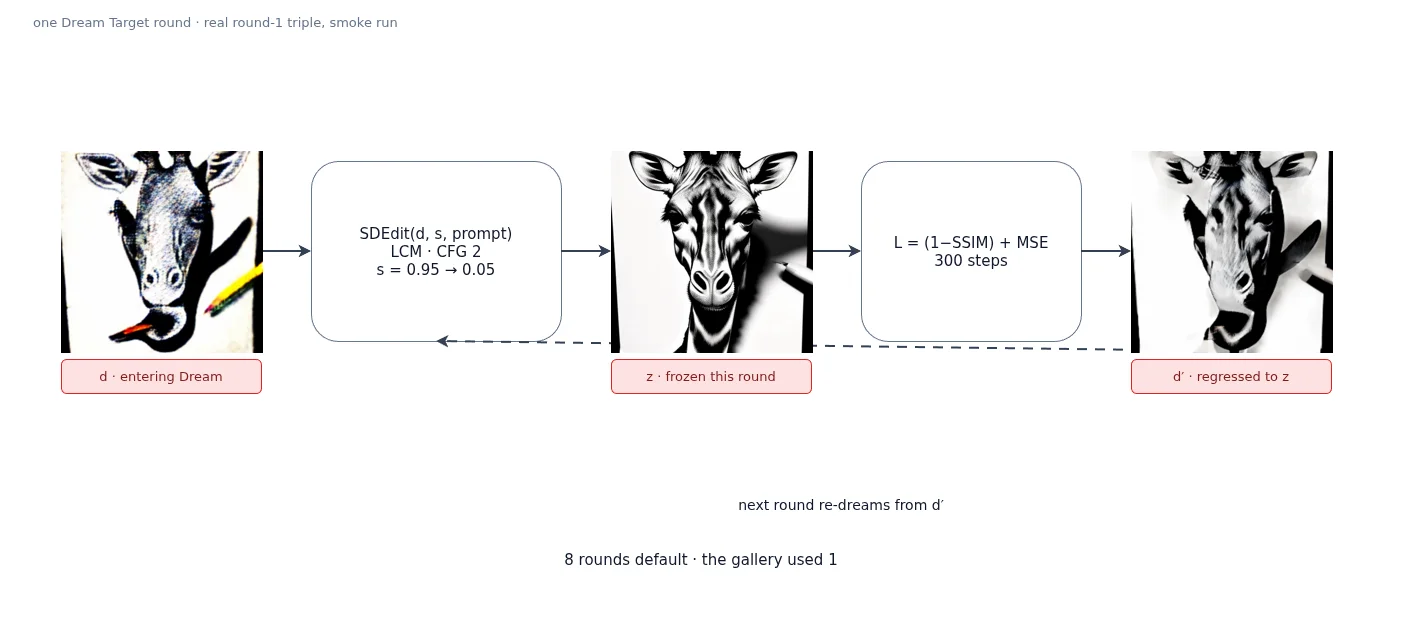
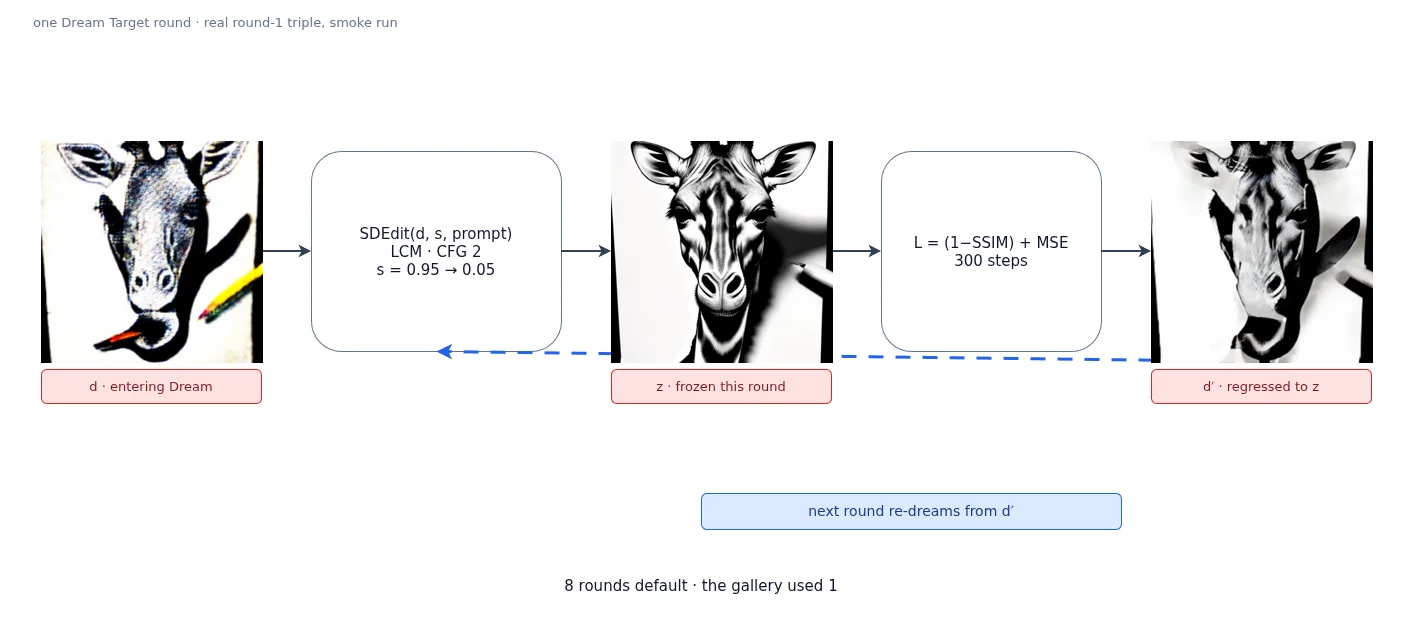
feat: densen ffn and dream figures with evidence panels
FFN gains a second row: coordinate field visual, real sin/cos plot,
2x crops of printable strokes, and the pixels-vs-weights verdict.
Dream gains larger photos and a labeled loop-back. Joint tightened.

diff --git a/frontend/src/routes/illusions/+page.svelte b/frontend/src/routes/illusions/+page.svelte
@@ -49,7 +49,7 @@
 					src: '/illusions/ffn.webp',
 					cap: 'ill.fig_ffn_cap',
 					width: 1404,
-					height: 474
+					height: 664
 				}
 			]
 		},
@@ -81,7 +81,7 @@
 					src: '/illusions/dream.webp',
 					cap: 'ill.fig_dream_cap',
 					width: 1404,
-					height: 624
+					height: 644
 				}
 			]
 		},
@@ -94,7 +94,7 @@
 					src: '/illusions/joint.webp',
 					cap: 'ill.fig_joint_cap',
 					width: 1004,
-					height: 1404
+					height: 1344
 				}
 			]
 		},

diff --git a/scripts/render-illusion-figures.py b/scripts/render-illusion-figures.py
@@ -203,18 +203,77 @@ def fig_architecture():
     return f
 
 
-def fig_ffn():
-    f = Figure("ffn", 1400, 470)
+def _default_asset_dir():
+    import tempfile
+
+    out = Path(tempfile.mkdtemp(prefix="ill-fig-assets-"))
+    return out
+
+
+def _evidence_assets(outdir):
+    """Small explanatory plots drawn with PIL (math visuals, not data)."""
+    from PIL import Image, ImageDraw
+    import math
+
+    outdir = Path(outdir)
+    outdir.mkdir(parents=True, exist_ok=True)
+    grid = Image.new("RGB", (150, 150), "white")
+    gx = ImageDraw.Draw(grid)
+    for j in range(15):
+        for i in range(15):
+            gx.rectangle(
+                [10 + i * 9, 10 + j * 9, 10 + (i + 1) * 9 - 1, 10 + (j + 1) * 9 - 1],
+                fill=(int(255 * i / 14), int(255 * j / 14), 128),
+            )
+    grid.save(outdir / "coords-grid.png")
+    waves = Image.new("RGB", (220, 150), "white")
+    wx = ImageDraw.Draw(waves)
+    wx.line([(10, 75), (210, 75)], fill="#94a3b8", width=1)
+    wx.line(
+        [(10 + i * 2, 75 - int(55 * math.sin(i / 31.8 * 2 * math.pi))) for i in range(101)],
+        fill="#2563eb",
+        width=3,
+    )
+    wx.line(
+        [(10 + i * 2, 75 - int(55 * math.cos(i / 31.8 * 2 * math.pi))) for i in range(101)],
+        fill="#dc2626",
+        width=3,
+    )
+    waves.save(outdir / "sincos.png")
+    prime = Image.open(HERO_PRIME).convert("RGB")
+    prime.crop((60, 150, 124, 214)).resize((192, 192)).save(outdir / "crop-a.png")
+    prime.crop((120, 40, 184, 104)).resize((192, 192)).save(outdir / "crop-b.png")
+    return outdir
+
+
+def fig_ffn(evidence_dir=None):
+    f = Figure("ffn", 1400, 660)
     f.tag("one prime = one network · ≈264k weights")
-    f.rect(40, 170, 110, 90, "(x, y)", colors=C_INPUT)
-    f.rect(180, 160, 210, 110, "B ∼ N(0, 10²)\n2 × 256 · fixed")
-    f.rect(420, 160, 170, 110, "sin + cos\n512-d feats")
-    f.rect(620, 140, 300, 150, "MLP 512→256→256→256→3\nReLU ×3 · θ trained", colors=C_TRAIN)
-    f.rect(950, 160, 150, 110, "σ · sigmoid\nRGB (1,3,512,512)")
-    f.photo(1130, 120, 190, 190, HERO_PRIME, "printable prime", C_INPUT)
-    for a, b in [(150, 180), (390, 420), (590, 620), (920, 950), (1100, 1130)]:
-        f.edge([(a, 215), (b, 215)])
-    f.text(140, 390, 1120, 40, "v = [ sin(2πBx) ‖ cos(2πBx) ] · RGB = σ(MLP(v))")
+    f.rect(40, 120, 100, 80, "(x, y)", colors=C_INPUT)
+    f.rect(160, 110, 180, 100, "B ∼ N(0, 10²)\n2 × 256 · fixed")
+    f.rect(360, 110, 160, 100, "sin + cos\n512-d feats")
+    f.rect(540, 100, 280, 120, "MLP 512→256→256→256→3\nReLU ×3 · θ trained", colors=C_TRAIN)
+    f.rect(840, 110, 150, 100, "σ · sigmoid\nRGB (1,3,512,512)")
+    f.photo(1010, 80, 190, 190, HERO_PRIME, "printable prime", C_INPUT)
+    for a, b in [(140, 160), (340, 360), (520, 540), (820, 840), (990, 1010)]:
+        f.edge([(a, 160), (b, 160)])
+    assets = _evidence_assets(evidence_dir or _default_asset_dir())
+    f.photo(
+        80, 330, 150, 150, assets / "coords-grid.png", "every pixel: (x, y)", C_INPUT
+    )
+    f.photo(300, 330, 220, 150, assets / "sincos.png", "fixed waves, not learned")
+    f.photo(590, 330, 150, 150, assets / "crop-a.png")
+    f.photo(760, 330, 150, 150, assets / "crop-b.png")
+    f.rect(590, 488, 320, 34, "2× crops: smooth, printable", colors=C_INPUT, size=13)
+    f.rect(
+        980,
+        330,
+        340,
+        150,
+        "pixels × hide art in noise\nweights ✓ hold shape\npaper Sec. 4.3",
+        size=14,
+    )
+    f.text(140, 580, 1120, 36, "v = [ sin(2πBx) ‖ cos(2πBx) ] · RGB = σ(MLP(v))")
     return f
 
 
@@ -285,37 +344,37 @@ def fig_two_phase():
 
 
 def fig_dream():
-    f = Figure("dream", 1400, 620)
+    f = Figure("dream", 1400, 640)
     f.tag("one Dream Target round · real round-1 triple, smoke run")
-    f.photo(60, 150, 200, 200, _smoke_derived(5000), "d · entering Dream")
-    f.rect(310, 160, 250, 180, "SDEdit(d, s, prompt)\nLCM · CFG 2\ns = 0.95 → 0.05")
+    f.photo(40, 140, 220, 220, _smoke_derived(5000), "d · entering Dream")
+    f.rect(310, 150, 250, 200, "SDEdit(d, s, prompt)\nLCM · CFG 2\ns = 0.95 → 0.05")
     f.photo(
         610,
-        150,
-        200,
-        200,
+        140,
+        220,
+        220,
         SMOKE_ARM / "ckpt_dream_round_01" / "target_1.png",
         "z · frozen this round",
     )
-    f.rect(860, 160, 220, 180, "L = (1−SSIM) + MSE\n300 steps")
+    f.rect(880, 150, 220, 200, "L = (1−SSIM) + MSE\n300 steps")
     f.photo(
-        1130,
-        150,
-        200,
-        200,
+        1150,
+        140,
+        220,
+        220,
         SMOKE_ARM / "ckpt_dream_round_01" / "derived_1.png",
         "d′ · regressed to z",
     )
-    for a, b in [(260, 310), (560, 610), (810, 860), (1080, 1130)]:
+    for a, b in [(260, 310), (560, 610), (830, 880), (1100, 1150)]:
         f.edge([(a, 250), (b, 250)])
-    f.edge([(1230, 350), (1230, 500), (435, 500), (435, 340)], dashed=1)
-    f.text(560, 486, 560, 36, "next round re-dreams from d′", size=14)
-    f.text(140, 540, 1120, 36, "8 rounds default · the gallery used 1")
+    f.edge([(1260, 360), (1260, 510), (435, 510), (435, 350)], dashed=1, color=C_TRAIN[1], width=3)
+    f.rect(700, 492, 420, 36, "next round re-dreams from d′", colors=C_TRAIN, size=14)
+    f.text(140, 566, 1120, 36, "8 rounds default · the gallery used 1")
     return f
 
 
 def fig_joint():
-    f = Figure("joint", 1000, 1400)
+    f = Figure("joint", 1000, 1340)
     f.tag("joint Dream · elephant–swan keeper (joint mode)")
     f.photo(210, 70, 220, 220, HERO_VIEW, "vA · upright")
     f.photo(570, 70, 220, 220, HERO_VIEW2, "vB · as rot₁₈₀")
@@ -323,18 +382,18 @@ def fig_joint():
     f.rect(210, 470, 580, 80, "rot₁₈₀(vB prediction) → upright frame")
     f.rect(210, 580, 580, 100, "c = (x̂A + rot₁₈₀(x̂B)) / 2\npixel space, not latent")
     f.photo(390, 730, 220, 220, HERO_PRIME, "consensus lives in the prime", C_INPUT)
-    f.photo(210, 1040, 220, 220, HERO_VIEW, "target A")
-    f.photo(570, 1040, 220, 220, HERO_VIEW2, "target B · as rot₁₈₀")
+    f.photo(210, 990, 220, 220, HERO_VIEW, "target A")
+    f.photo(570, 990, 220, 220, HERO_VIEW2, "target B · as rot₁₈₀")
     f.edge([(320, 336), (400, 360)])
     f.edge([(680, 336), (600, 360)])
     f.edge([(500, 440), (500, 470)])
     f.edge([(500, 550), (500, 580)])
     f.edge([(500, 680), (500, 730)])
-    f.edge([(500, 950), (320, 1040)])
-    f.edge([(500, 950), (680, 1040)])
+    f.edge([(500, 950), (320, 990)])
+    f.edge([(500, 950), (680, 990)])
     f.rect(
         140,
-        1310,
+        1250,
         720,
         56,
         "VAE does not commute with rot₁₈₀ · latent error 0.78–0.97",
